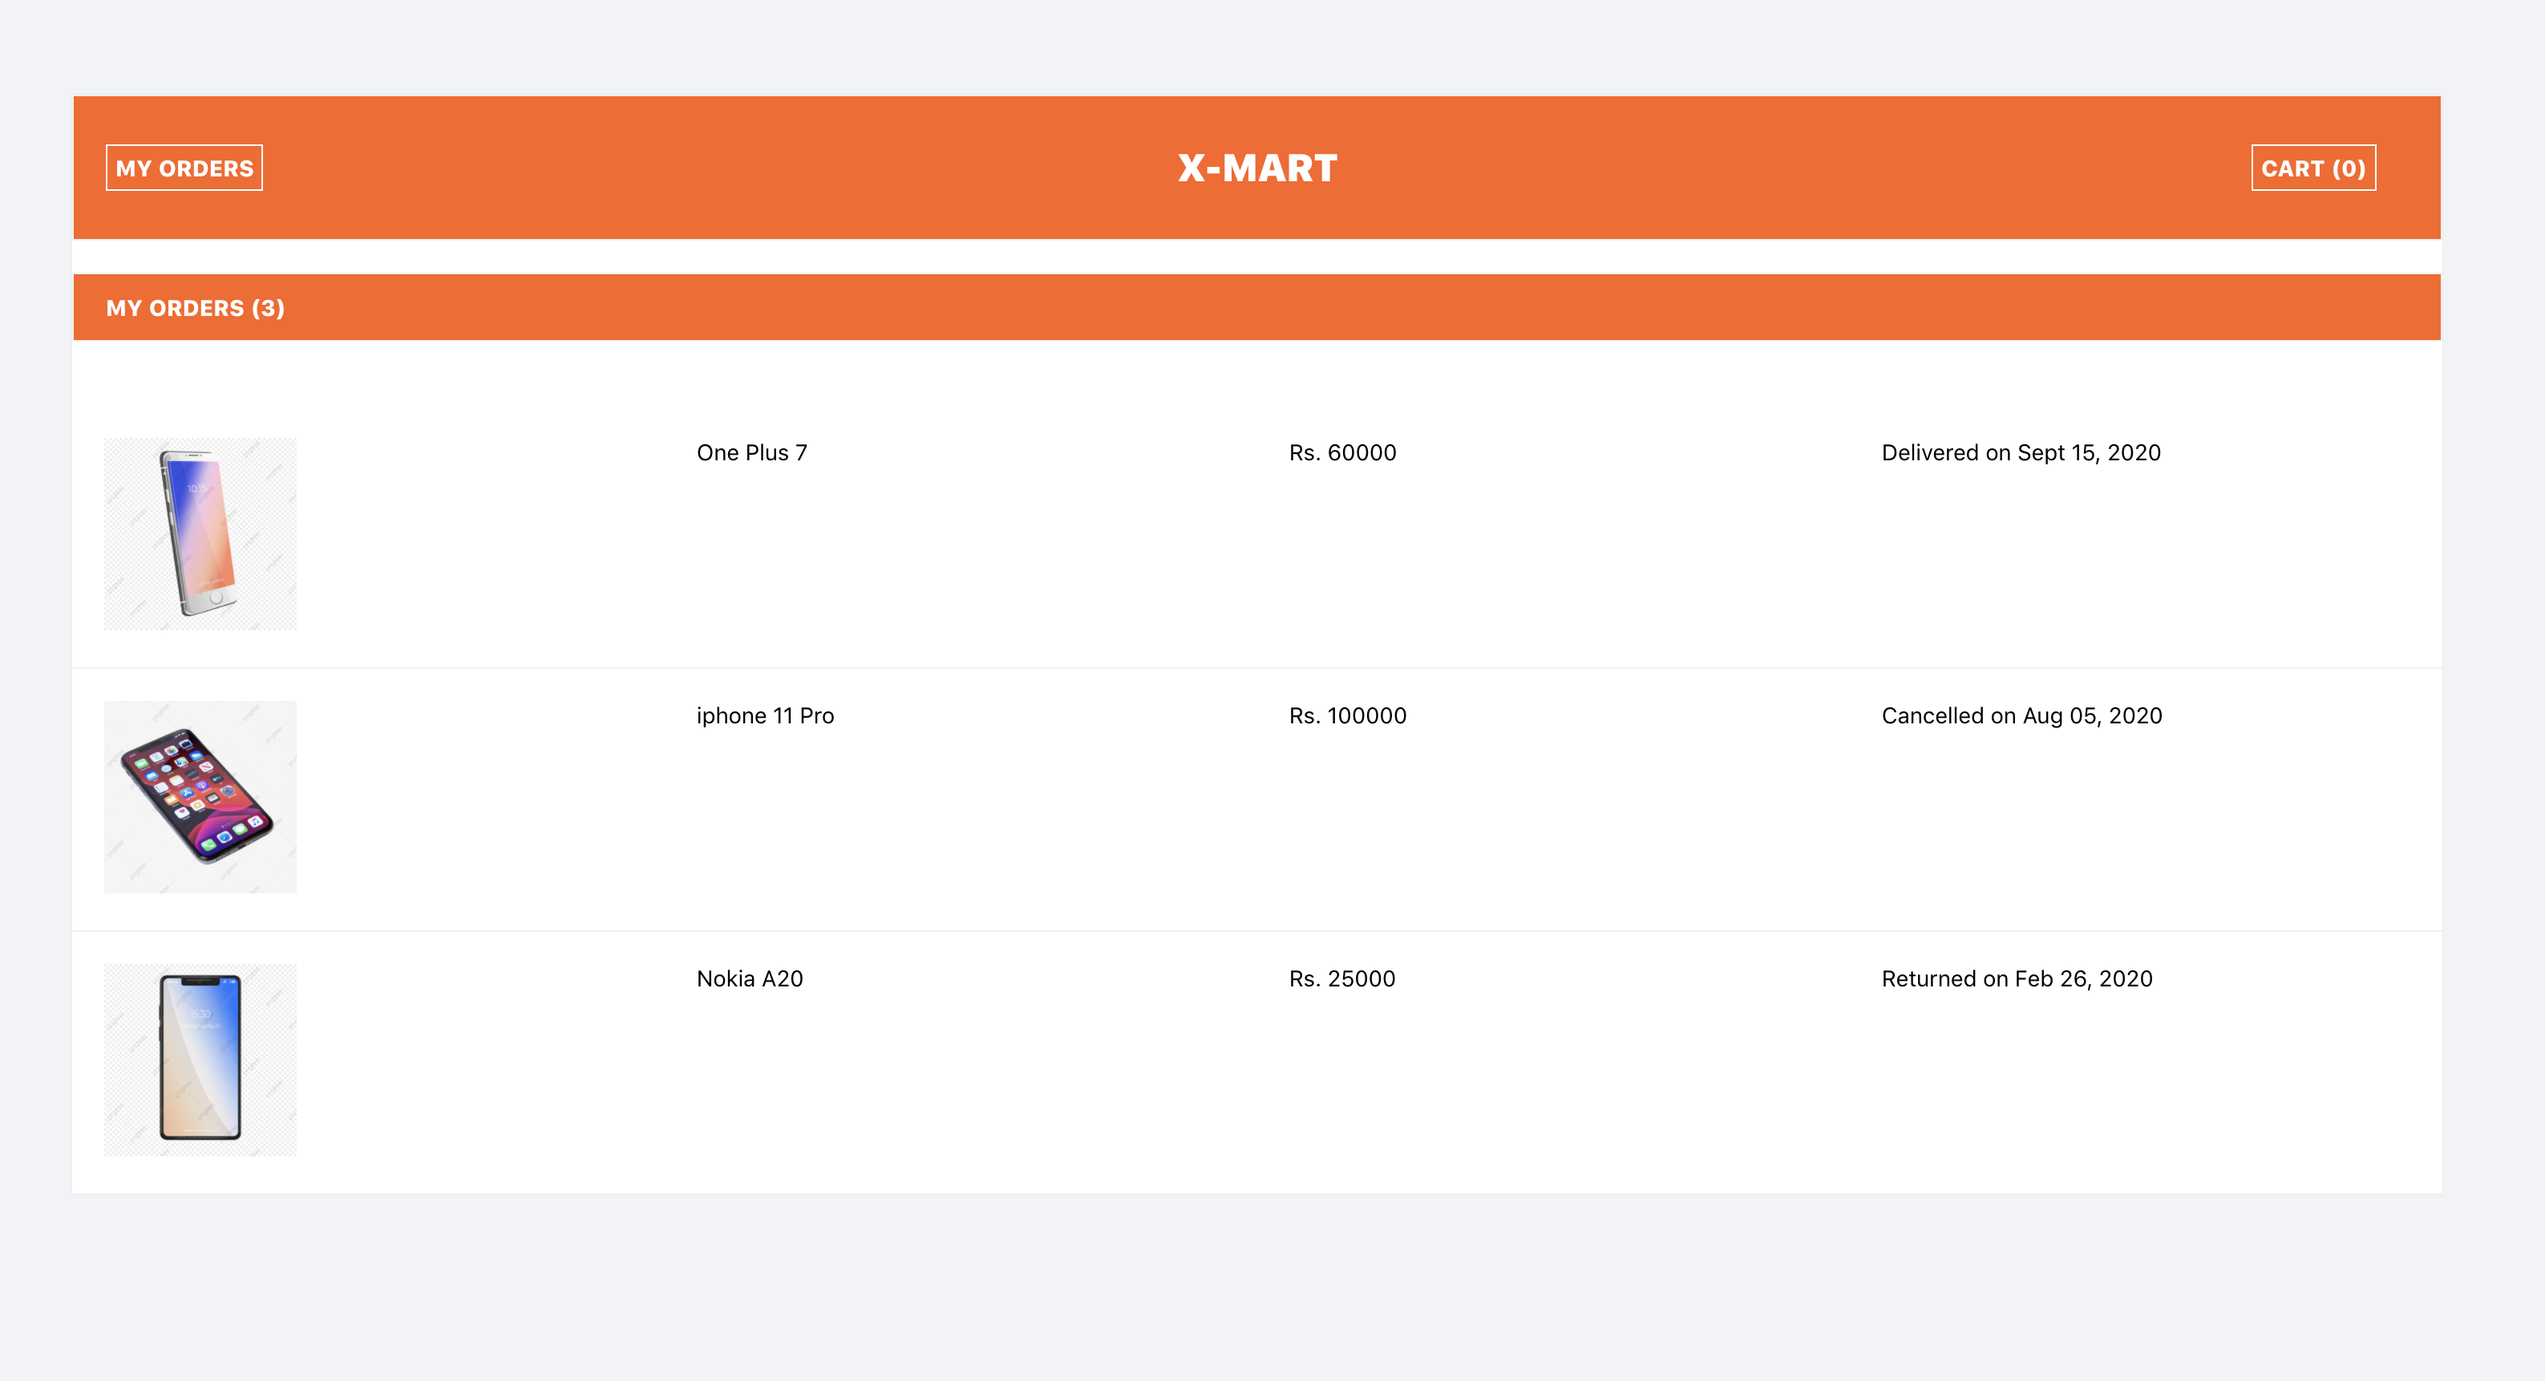
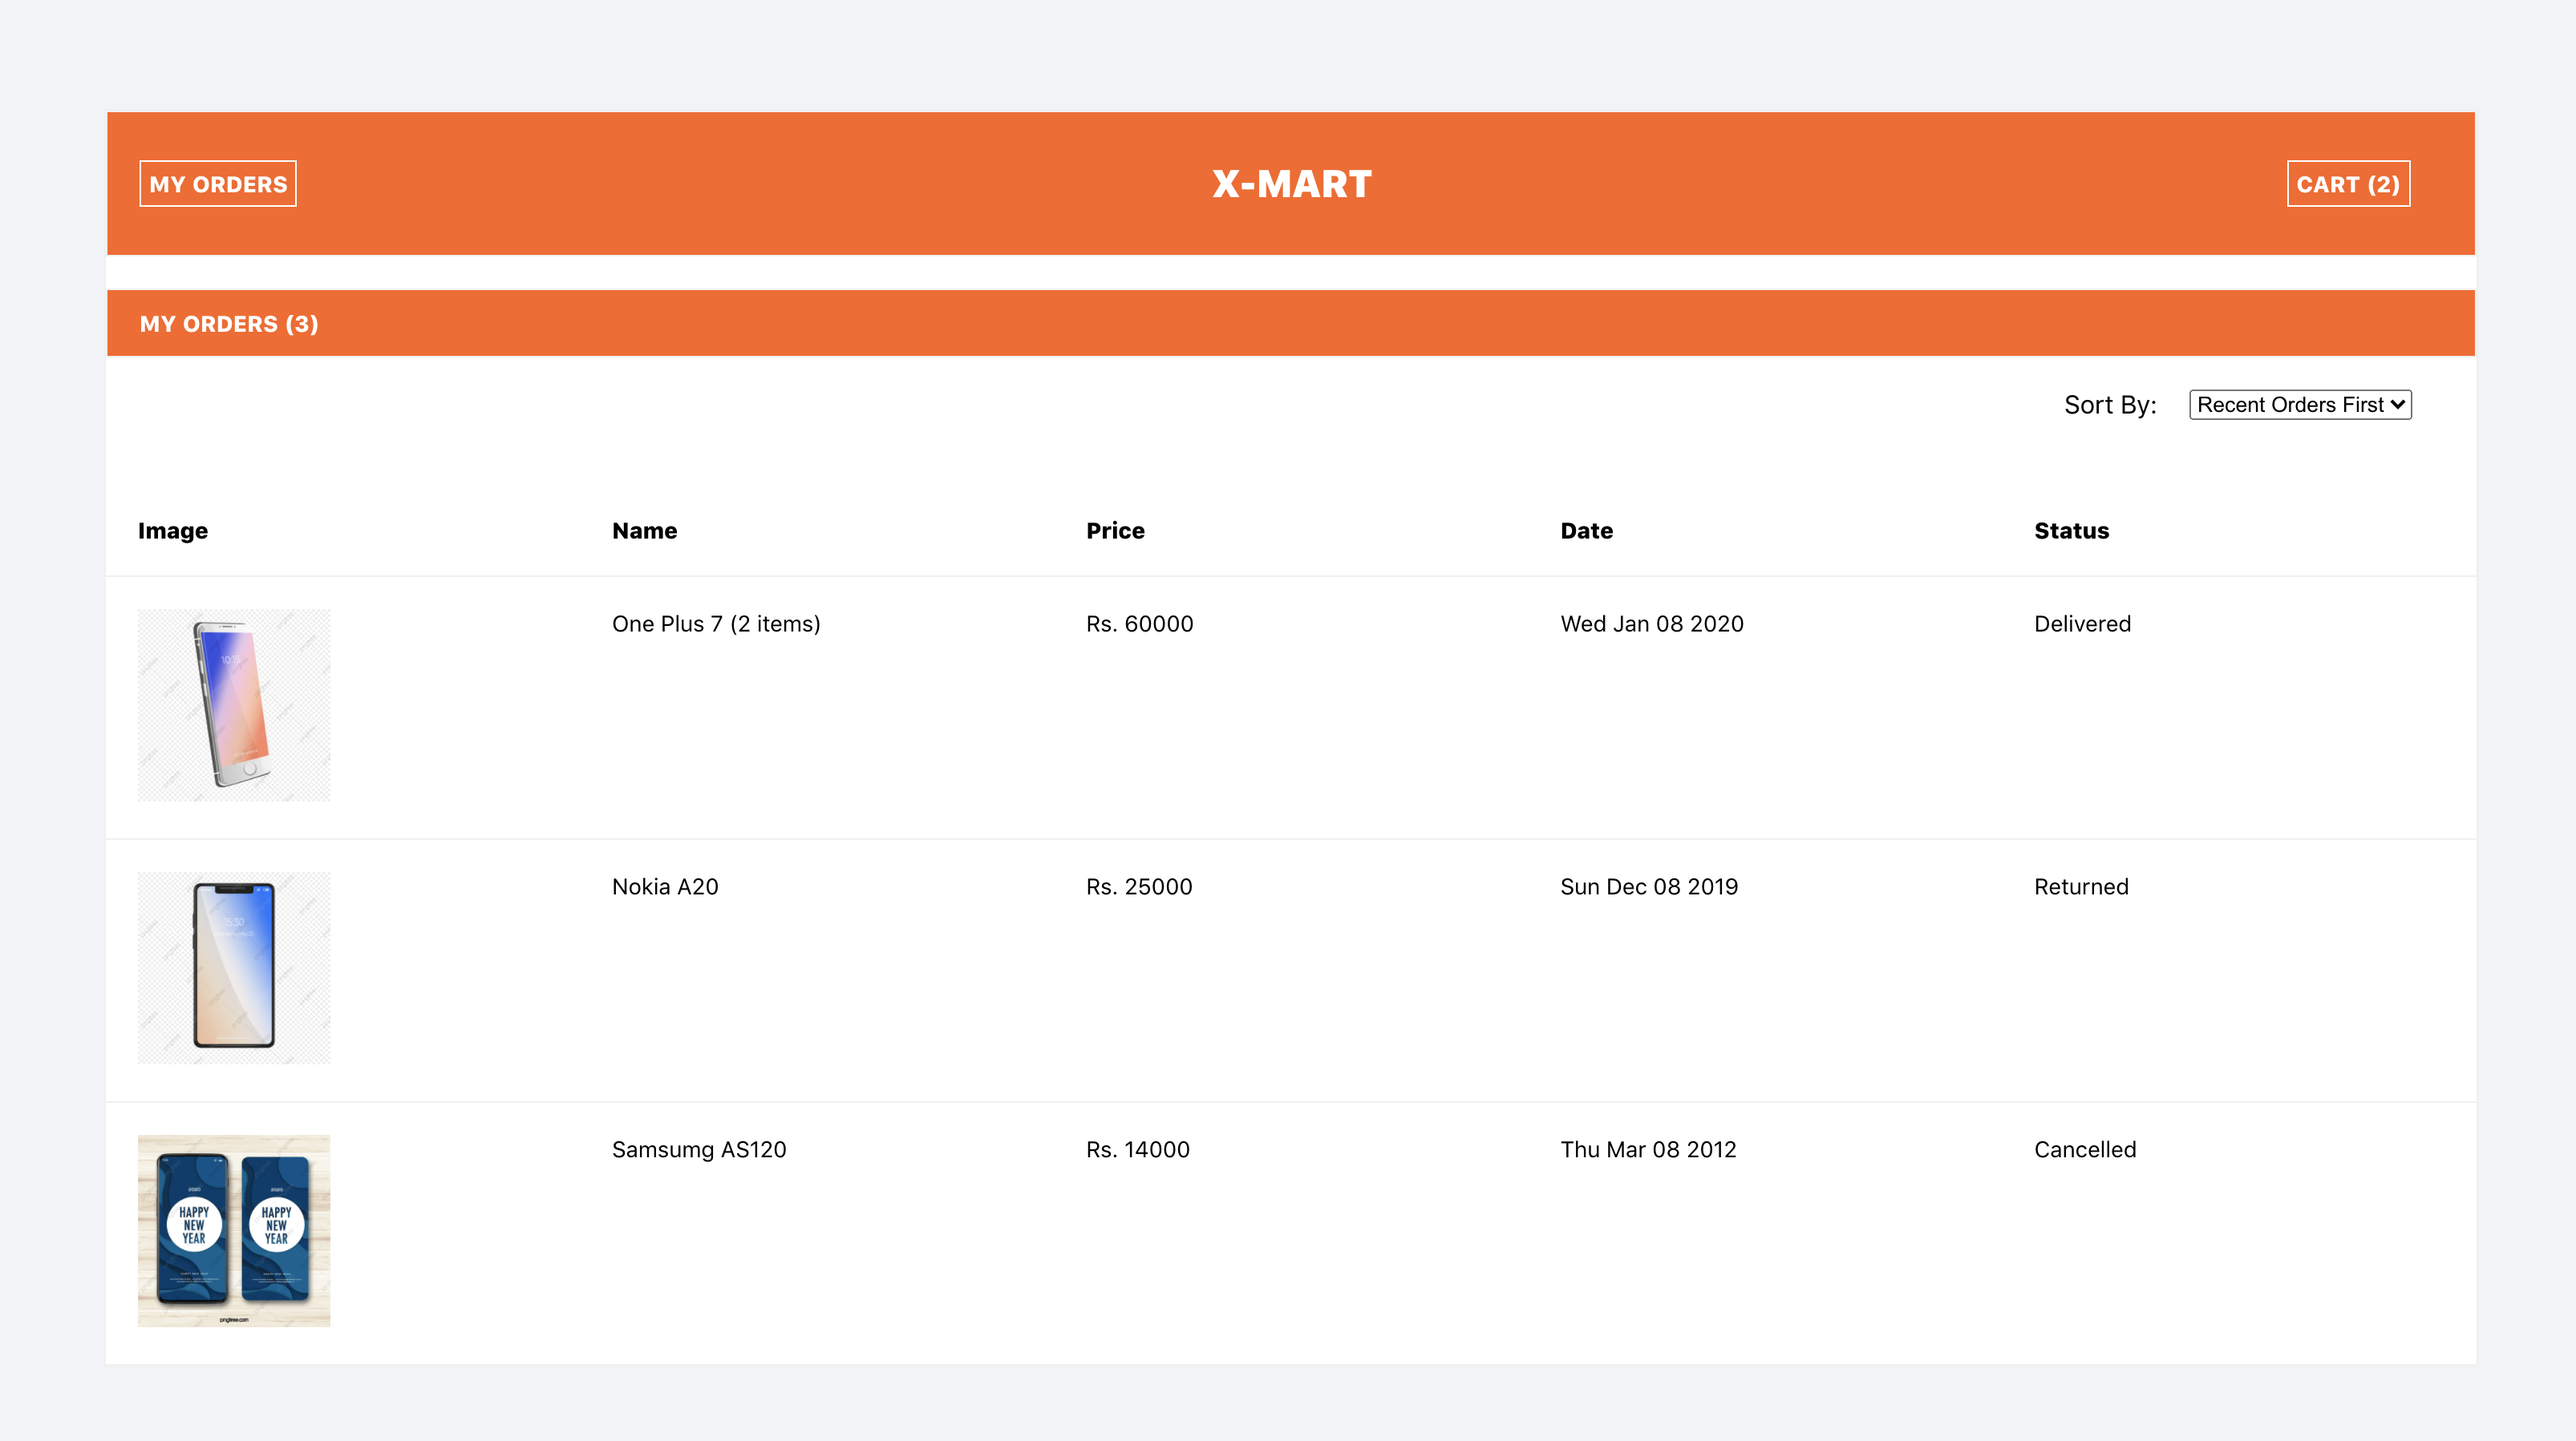
Added sort order functionality

diff --git a/src/views/Orders.js b/src/views/Orders.js
@@ -1,23 +1,65 @@
-import React, {Fragment} from 'react';
+import React, {Fragment, useState, useEffect} from 'react';
 import i18n from "../i18n";
 import {orders} from "../mock/MockedOrders";
+import {ORDER_LIST_SORT_ORDER, SORT_ORDER_FUN} from "../consts";
 import HeaderComponent from "../components/HeaderComponent";
-import {ListLayout, SubHeader, TableLayout, Cell} from "../components/StyledComponent";
+import {
+    ListLayout, 
+    HeaderCell, 
+    SubHeader, 
+    TableLayout, 
+    SortLayout,
+    Cell
+} from "../components/StyledComponent";
 
 const OrderConfirmation = ({cartItems}) => {
+
+    const {
+        LOWEST_PRICE_FIRST,
+        HIGHEST_PRICE_FIRST,
+        RECENT_ORDERS_FIRST,
+        OLD_ORDERS_FIRST
+    } = ORDER_LIST_SORT_ORDER;
+    const [orderList, setOrderList] = useState(orders);
+    const [sortOrder, setSortOrder] = useState(RECENT_ORDERS_FIRST)
+
+    useEffect(() => {
+        const clonedOrders = [...orderList];
+        const sortedOrderlist = clonedOrders.sort(SORT_ORDER_FUN[sortOrder]);
+        setOrderList(sortedOrderlist);
+    }, [sortOrder]);
+
+    const onOrderChange = (event) => {
+        setSortOrder(event.target.value);
+    }
     
     return (
         <ListLayout data-testid="orders">
             <HeaderComponent cartItems={cartItems}/>
             <SubHeader marginTop={"20px"}>{i18n.my_orders} ({orders.length})</SubHeader>
-            <TableLayout>
-                {Object.values(orders).map((item)=> {
+            <SortLayout>
+                <label>{i18n.sort_by}</label>
+                <select value={sortOrder} onChange={onOrderChange}>
+                    <option value={LOWEST_PRICE_FIRST}>{i18n.lowest_price_first}</option>
+                    <option value={HIGHEST_PRICE_FIRST}>{i18n.highest_price_first}</option>
+                    <option value={RECENT_ORDERS_FIRST}>{i18n.recent_orders_first}</option>
+                    <option value={OLD_ORDERS_FIRST}>{i18n.old_orders_first}</option>
+                </select>
+            </SortLayout>
+            <TableLayout columns={5}>
+                <HeaderCell>{i18n.image}</HeaderCell>
+                <HeaderCell>{i18n.name}</HeaderCell>
+                <HeaderCell>{i18n.price}</HeaderCell>
+                <HeaderCell>{i18n.date}</HeaderCell>
+                <HeaderCell>{i18n.status}</HeaderCell>
+                {orderList.map((item)=> {
                     return (
                         <Fragment key={item.productId}>
                             <Cell><img className="image" src={item.imgUrl} alt={item.name}/></Cell>
-                            <Cell>{item.name}</Cell>
+                            <Cell>{item.name} {item.quantity > 1 ? `(${item.quantity} ${i18n.items})` : ''} </Cell>
                             <Cell>{item.currency} {item.price}</Cell>
-                            <Cell>{item.status} {i18n.on} {item.date}</Cell>
+                            <Cell>{new Date(item.date).toDateString()}</Cell>
+                            <Cell>{item.status}</Cell>
                         </Fragment>
                     )
                 })}

diff --git a/src/mock/MockedOrders.js b/src/mock/MockedOrders.js
@@ -13,18 +13,18 @@ export const orders = [
         currency: 'Rs.',
         quantity: 2,
         status: 'Delivered',
-        date: 'Sept 15, 2020'
+        date: 'Jan 8 2020 08:00:00 AM'
     },
     {
         orderId: '9000-B',
-        productId: '8',
-        name: 'iphone 11 Pro',
-        imgUrl: 'https://png.pngtree.com/png-clipart/20190922/original/pngtree-planner-application-template-for-mobile-phone-png-image_4774066.jpg',
-        price: '100000',
+        productId: '1',
+        name: 'Samsumg AS120',
+        imgUrl: 'https://png.pngtree.com/png-clipart/20200727/original/pngtree-blue-paper-cut-style-background-2020-new-year-wishes-mobile-phone-png-image_5307629.jpg',
+        price: '14000',
         currency: 'Rs.',
         quantity: 1,
         status: 'Cancelled',
-        date: 'Aug 05, 2020'
+        date: 'Mar 8 2012 08:00:00 AM'
     },
     {   
         orderId: '8000-Z',
@@ -35,6 +35,6 @@ export const orders = [
         currency: 'Rs.',
         quantity: 1,
         status: 'Returned',
-        date: 'Feb 26, 2020'
+        date: 'Dec 8 2019 08:00:00 AM'
     }
 ]

diff --git a/src/components/StyledComponent.js b/src/components/StyledComponent.js
@@ -140,7 +140,7 @@ export const TableLayout = styled.div.attrs({
   className: "table-layout"
 })`
   display: grid;
-  grid-template-columns: repeat(4, 1fr);
+  grid-template-columns: repeat(${props => props.columns || 4}, 1fr);
   margin-top: 40px;
   
  }
@@ -195,6 +195,18 @@ export const Cell = styled.div.attrs({
       height: 120px
     }
    }
+  `;
+
+export const SortLayout = styled.div.attrs({
+  className: "sort-layout"
+})`
+  display: flex;
+  place-content: flex-end;
+  padding: 20px 40px 0px;
+  
+  label {
+    padding-right: 20px;
+  }
   `;
 
 export const Tile = styled.div.attrs({

diff --git a/src/consts/index.js b/src/consts/index.js
@@ -1,0 +1,14 @@
+export const ORDER_LIST_SORT_ORDER = {
+    LOWEST_PRICE_FIRST: 'lowestPriceFirst',
+    HIGHEST_PRICE_FIRST: 'highestPriceFirst',
+    RECENT_ORDERS_FIRST: 'recentOrdersFirst',
+    OLD_ORDERS_FIRST: 'oldOrdersFirst'
+};
+
+export const SORT_ORDER_FUN = {
+    lowestPriceFirst: (a, b) => a.price - b.price,
+    highestPriceFirst: (a, b) => b.price - a.price,
+    recentOrdersFirst: (a, b) => new Date(b.date) - new Date(a.date),
+    oldOrdersFirst: (a, b) => new Date(a.date) - new Date(b.date)
+    
+}

diff --git a/src/i18n/en.js b/src/i18n/en.js
@@ -23,5 +23,11 @@ export default {
     'order_placed_successfully': 'Order has been placed successfully',
     'order_placed_alert': 'Order has been placed successfully for {arg} item(s)',
     'my_orders': 'My Orders',
-    'on': 'on',
+    'date': 'Date',
+    'status': 'Status',
+    'sort_by': 'Sort By:',
+    'lowest_price_first': 'Lowest Price First',
+    'highest_price_first': 'Highest Price First',
+    'recent_orders_first': 'Recent Orders First',
+    'old_orders_first': 'Old Orders First',
 }

diff --git a/README.md b/README.md
@@ -1,10 +1,25 @@
-This project was bootstrapped with [Create React App](https://github.com/facebook/create-react-app).
+This is shopping cart portal project.
+
+It contain mainly 3 pages - Home page, Cart page and Orders page. I have attched screenshots of these pages in screenshots folder, please refer.
+
+On home page, user can add mupltiple items to cart. He can select multiple quantity of a item as well.
+On cart page, user can see all products that are added to cart. He can remove item from cart, also can change quanity of added products. Total price of the cart is always up-to-date with cart items.
+On orders page, user can see his past orders. These orders can be sorted, based on price and date.
+
+
+Please note:
+I have created mock folder in repository, which contains mock data. 
+This data should come from web service later.
+For adding more products to the list, please refer MockedProductList.js. Please check note added in this file.
+For adding more past orders, please refer MockedOrders.js
+For changing delivery address, please refer MockedUserDetails.js
+
 
 ## Available Scripts
 
 In the project directory, you can run:
 
-### `yarn start`
+### `npm start`
 
 Runs the app in the development mode.<br />
 Open [http://localhost:3000](http://localhost:3000) to view it in the browser.
@@ -12,12 +27,12 @@ Open [http://localhost:3000](http://localhost:3000) to view it in the browser.
 The page will reload if you make edits.<br />
 You will also see any lint errors in the console.
 
-### `yarn test`
+### `npm test`
 
 Launches the test runner in the interactive watch mode.<br />
 See the section about [running tests](https://facebook.github.io/create-react-app/docs/running-tests) for more information.
 
-### `yarn build`
+### `npm build`
 
 Builds the app for production to the `build` folder.<br />
 It correctly bundles React in production mode and optimizes the build for the best performance.
@@ -27,42 +42,3 @@ Your app is ready to be deployed!
 
 See the section about [deployment](https://facebook.github.io/create-react-app/docs/deployment) for more information.
 
-### `yarn eject`
-
-**Note: this is a one-way operation. Once you `eject`, you can’t go back!**
-
-If you aren’t satisfied with the build tool and configuration choices, you can `eject` at any time. This command will remove the single build dependency from your project.
-
-Instead, it will copy all the configuration files and the transitive dependencies (webpack, Babel, ESLint, etc) right into your project so you have full control over them. All of the commands except `eject` will still work, but they will point to the copied scripts so you can tweak them. At this point you’re on your own.
-
-You don’t have to ever use `eject`. The curated feature set is suitable for small and middle deployments, and you shouldn’t feel obligated to use this feature. However we understand that this tool wouldn’t be useful if you couldn’t customize it when you are ready for it.
-
-## Learn More
-
-You can learn more in the [Create React App documentation](https://facebook.github.io/create-react-app/docs/getting-started).
-
-To learn React, check out the [React documentation](https://reactjs.org/).
-
-### Code Splitting
-
-This section has moved here: https://facebook.github.io/create-react-app/docs/code-splitting
-
-### Analyzing the Bundle Size
-
-This section has moved here: https://facebook.github.io/create-react-app/docs/analyzing-the-bundle-size
-
-### Making a Progressive Web App
-
-This section has moved here: https://facebook.github.io/create-react-app/docs/making-a-progressive-web-app
-
-### Advanced Configuration
-
-This section has moved here: https://facebook.github.io/create-react-app/docs/advanced-configuration
-
-### Deployment
-
-This section has moved here: https://facebook.github.io/create-react-app/docs/deployment
-
-### `yarn build` fails to minify
-
-This section has moved here: https://facebook.github.io/create-react-app/docs/troubleshooting#npm-run-build-fails-to-minify
